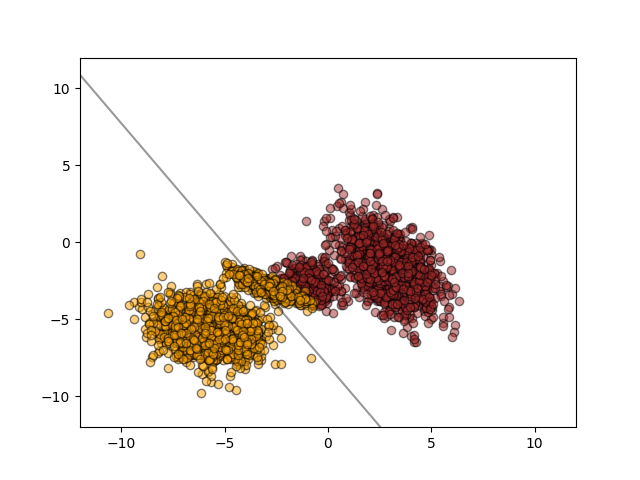
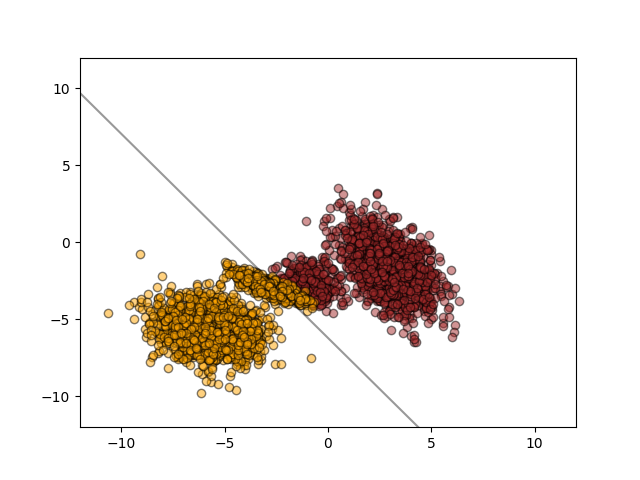
Corrigido computação da matriz de confusão

diff --git a/src/tc2/perceptron.py b/src/tc2/perceptron.py
@@ -1,11 +1,10 @@
 import matplotlib.pyplot as plt
 import numpy as np
-import seaborn as sns
 import os
 from util import (
     carregar_dados,
     computar_indice_mc,
-    estatisticas,
+    exportar_graficos,
     plotar_dados,
     printar_progresso,
     processar_dados,
@@ -46,22 +45,16 @@ while RODADA < MAX_RODADAS:
     EPOCH = 0
     MAX_EPOCH = 100
 
-    ACURACIAS = []
-    SENSIBILIDADES = []
-    ESPECIFICIDADES = []
-    EPOCH_DATA = []
-
-    matriz_confusao_rodada = np.zeros((2, 2), dtype=int)
+    matriz_confusao = np.zeros((2, 2), dtype=int)
 
     plt.clf()
     plotar_dados(X, has_bias=True)
 
-    printar_progresso(RODADA / MAX_RODADAS)
-
     while ERRO and EPOCH < MAX_EPOCH:
+        printar_progresso(RODADA / MAX_RODADAS)
+
         ERRO = False
         QTD_ERROS = 0
-        matriz_confusao = np.zeros((2, 2), dtype=int)
 
         # Fase de treino
         for t in range(N):
@@ -80,90 +73,42 @@ while RODADA < MAX_RODADAS:
         # plt.plot(x1, x2, color=rdc(), alpha=0.4)
         # plt.pause(0.01)
 
-        # Fase de testes
-        for t in range(N_teste):
-            x_t = X_teste[:, t].reshape(3, 1)
-            u_t = W.T @ x_t
-            y_t = sinal(u_t[0, 0])
-            d_t = y_teste[t, 0]
-
-            y_real = computar_indice_mc(int(y_teste[t][0]))
-            y_predito = computar_indice_mc(y_t)
-            matriz_confusao[y_predito, y_real] += 1
-
-        VN: int = matriz_confusao[0, 0]
-        VP: int = matriz_confusao[1, 1]
-        FN: int = matriz_confusao[0, 1]
-        FP: int = matriz_confusao[1, 0]
-
-        ACURACIA = (VP + VN) / (VP + VN + FP + FN)
-        SENSIBILIDADE = VP / (VP + FN)
-        ESPECIFICIDADE = VN / (VN + FP)
-
-        ACURACIAS.append(ACURACIA)
-        SENSIBILIDADES.append(SENSIBILIDADE)
-        ESPECIFICIDADES.append(ESPECIFICIDADE)
-
-        matriz_confusao_rodada += matriz_confusao
-
-        EPOCH_DATA.append(
-            {
-                "acuracia": ACURACIA,
-                "sensibilidade": SENSIBILIDADE,
-                "especificidade": ESPECIFICIDADE,
-                "epoch": EPOCH,
-                "rodada": RODADA,
-                "matriz_confusao": matriz_confusao,
-                "x1": x1,
-                "x2": x2,
-            }
-        )
-
         EPOCH += 1
+
+    # Fase de testes
+    for t in range(N_teste):
+        x_t = X_teste[:, t].reshape(3, 1)
+        u_t = W.T @ x_t
+        y_t = sinal(u_t[0, 0])
+        d_t = y_teste[t, 0]
+
+        y_real = computar_indice_mc(int(y_teste[t][0]))
+        y_predito = computar_indice_mc(y_t)
+        matriz_confusao[y_predito, y_real] += 1
+
+    VN: int = matriz_confusao[0, 0]
+    VP: int = matriz_confusao[1, 1]
+    FN: int = matriz_confusao[0, 1]
+    FP: int = matriz_confusao[1, 0]
+
+    ACURACIA = (VP + VN) / (VP + VN + FP + FN)
+    SENSIBILIDADE = VP / (VP + FN)
+    ESPECIFICIDADE = VN / (VN + FP)
 
     RODADA_DATA.append(
         {
-            "acuracia": np.mean(ACURACIAS),
-            "sensibilidade": np.mean(SENSIBILIDADES),
-            "especificidade": np.mean(ESPECIFICIDADES),
+            "acuracia": ACURACIA,
+            "sensibilidade": SENSIBILIDADE,
+            "especificidade": ESPECIFICIDADE,
             "rodada": RODADA,
-            "matriz_confusao": matriz_confusao_rodada,
-            "epoch_data": EPOCH_DATA,
+            "matriz_confusao": matriz_confusao,
+            "x1": x1,
+            "x2": x2,
         }
     )
 
     RODADA += 1
 
-# 7. Ao final das rodadas, compute os seguintes resultados para o PS e ADALINE
-# A. Acurácia média
-# B. Sensibilidade média
-# C. Especificidade média
-ACURACIAS = [d["acuracia"] for d in RODADA_DATA]
-SENSIBILIDADES = [d["sensibilidade"] for d in RODADA_DATA]
-ESPECIFICIDADES = [d["especificidade"] for d in RODADA_DATA]
-estatisticas(ACURACIAS, SENSIBILIDADES, ESPECIFICIDADES, modelo="Perceptron")
-
-MELHOR_RODADA = max(RODADA_DATA, key=lambda x: x["acuracia"])
-PIOR_RODADA = min(RODADA_DATA, key=lambda x: x["acuracia"])
-
-plt.show()
-
-# D. Matriz de confusão da melhor rodada
-plt.clf()
-sns.heatmap(MELHOR_RODADA["matriz_confusao"], annot=True, fmt="d")
-
-# E. Matriz de confusão da pior rodada
-plt.clf()
-sns.heatmap(PIOR_RODADA["matriz_confusao"], annot=True, fmt="d")
-
-# F. Traçar o hiperplano de separação das duas classes para a melhor e pior rodada
-MELHOR_EPOCH = max(MELHOR_RODADA["epoch_data"], key=lambda x: x["acuracia"])
-PIOR_EPOCH = min(PIOR_RODADA["epoch_data"], key=lambda x: x["acuracia"])
-plt.clf()
-plotar_dados(X, has_bias=True)
-plt.plot(MELHOR_EPOCH["x1"], MELHOR_EPOCH["x2"], color="black", alpha=0.4)
-plt.clf()
-plotar_dados(X, has_bias=True)
-plt.plot(PIOR_EPOCH["x1"], PIOR_EPOCH["x2"], color="black", alpha=0.4)
+exportar_graficos(X, RODADA_DATA, "Perceptron")
 
 pass

diff --git a/src/tc2/adaline.py b/src/tc2/adaline.py
@@ -6,6 +6,7 @@ from util import (
     carregar_dados,
     computar_indice_mc,
     estatisticas,
+    exportar_graficos,
     plotar_dados,
     printar_progresso,
     processar_dados,
@@ -31,7 +32,6 @@ def EQM(X, y, W):
 
 (X, y) = carregar_dados("data/DataAV2_new_2.csv")
 plotar_dados(X, has_bias=False)
-plt.show()
 
 N, p = X.shape
 X = X.T
@@ -40,7 +40,7 @@ X = np.concatenate((-np.ones((1, N)), X))
 LR = 1e-2
 PRECISION = 1e-2
 
-MAX_EPOCH = 300
+MAX_EPOCH = 100
 
 RODADA = 0
 MAX_RODADAS = 100
@@ -69,9 +69,6 @@ while RODADA < MAX_RODADAS:
     ACURACIAS = []
     SENSIBILIDADES = []
     ESPECIFICIDADES = []
-    EPOCH_DATA = []
-
-    matriz_confusao_rodada = np.zeros((2, 2), dtype=int)
 
     plt.clf()
     plotar_dados(X, has_bias=True)
@@ -95,92 +92,45 @@ while RODADA < MAX_RODADAS:
                 x2 = -x1 * (W[1, 0] / W[2, 0]) + W[0, 0] / W[2, 0]
         EQM2 = EQM(X, y, W)
 
+        EPOCH += 1
+
         # plt.plot(x1, x2, color=rdc(), alpha=0.4)
         # plt.pause(0.01)
 
-        # Fase de testes
-        for t in range(N_teste):
-            x_t = X_teste[:, t].reshape(3, 1)
-            u_t = W.T @ x_t
-            y_t = sinal(u_t[0, 0])
+    # Fase de testes
+    for t in range(N_teste):
+        x_t = X_teste[:, t].reshape(3, 1)
+        u_t = W.T @ x_t
+        y_t = sinal(u_t[0, 0])
+        d_t = y_teste[t, 0]
 
-            y_real = computar_indice_mc(int(y_teste[t][0]))
-            y_predito = computar_indice_mc(y_t)
-            matriz_confusao[y_predito, y_real] += 1
+        y_real = computar_indice_mc(int(y_teste[t][0]))
+        y_predito = computar_indice_mc(y_t)
+        matriz_confusao[y_predito, y_real] += 1
 
-        VN: int = matriz_confusao[0, 0]
-        VP: int = matriz_confusao[1, 1]
-        FN: int = matriz_confusao[0, 1]
-        FP: int = matriz_confusao[1, 0]
+    VN: int = matriz_confusao[0, 0]
+    VP: int = matriz_confusao[1, 1]
+    FN: int = matriz_confusao[0, 1]
+    FP: int = matriz_confusao[1, 0]
 
-        ACURACIA = (VP + VN) / (VP + VN + FP + FN)
-        SENSIBILIDADE = VP / (VP + FN)
-        ESPECIFICIDADE = VN / (VN + FP)
-
-        ACURACIAS.append(ACURACIA)
-        SENSIBILIDADES.append(SENSIBILIDADE)
-        ESPECIFICIDADES.append(ESPECIFICIDADE)
-
-        matriz_confusao_rodada += matriz_confusao
-
-        EPOCH_DATA.append(
-            {
-                "acuracia": ACURACIA,
-                "sensibilidade": SENSIBILIDADE,
-                "especificidade": ESPECIFICIDADE,
-                "epoch": EPOCH,
-                "rodada": RODADA,
-                "matriz_confusao": matriz_confusao,
-                "x1": x1,
-                "x2": x2,
-            }
-        )
-
-        EPOCH += 1
+    ACURACIA = (VP + VN) / (VP + VN + FP + FN)
+    SENSIBILIDADE = VP / (VP + FN)
+    ESPECIFICIDADE = VN / (VN + FP)
 
     RODADA_DATA.append(
         {
-            "acuracia": np.mean(ACURACIAS),
-            "sensibilidade": np.mean(SENSIBILIDADES),
-            "especificidade": np.mean(ESPECIFICIDADES),
+            "acuracia": ACURACIA,
+            "sensibilidade": SENSIBILIDADE,
+            "especificidade": ESPECIFICIDADE,
             "rodada": RODADA,
-            "matriz_confusao": matriz_confusao_rodada,
-            "epoch_data": EPOCH_DATA,
+            "matriz_confusao": matriz_confusao,
+            "x1": x1,
+            "x2": x2,
         }
     )
 
     RODADA += 1
 
-# 7. Ao final das rodadas, compute os seguintes resultados para o PS e ADALINE
-# A. Acurácia média
-# B. Sensibilidade média
-# C. Especificidade média
-ACURACIAS = [d["acuracia"] for d in RODADA_DATA]
-SENSIBILIDADES = [d["sensibilidade"] for d in RODADA_DATA]
-ESPECIFICIDADES = [d["especificidade"] for d in RODADA_DATA]
-estatisticas(ACURACIAS, SENSIBILIDADES, ESPECIFICIDADES, modelo="Adaline")
-
-MELHOR_RODADA = max(RODADA_DATA, key=lambda x: x["acuracia"])
-PIOR_RODADA = min(RODADA_DATA, key=lambda x: x["acuracia"])
-
-plt.show()
-
-# D. Matriz de confusão da melhor rodada
-plt.clf()
-sns.heatmap(MELHOR_RODADA["matriz_confusao"], annot=True, fmt="d")
-
-# E. Matriz de confusão da pior rodada
-plt.clf()
-sns.heatmap(PIOR_RODADA["matriz_confusao"], annot=True, fmt="d")
-
-# F. Traçar o hiperplano de separação das duas classes para a melhor e pior rodada
-MELHOR_EPOCH = max(MELHOR_RODADA["epoch_data"], key=lambda x: x["acuracia"])
-PIOR_EPOCH = min(PIOR_RODADA["epoch_data"], key=lambda x: x["acuracia"])
-plt.clf()
-plotar_dados(X, has_bias=True)
-plt.plot(MELHOR_EPOCH["x1"], MELHOR_EPOCH["x2"], color="black", alpha=0.4)
-plt.clf()
-plotar_dados(X, has_bias=True)
-plt.plot(PIOR_EPOCH["x1"], PIOR_EPOCH["x2"], color="black", alpha=0.4)
+exportar_graficos(X, RODADA_DATA, "Adaline")
 
 pass

diff --git a/src/tc2/util.py b/src/tc2/util.py
@@ -1,6 +1,7 @@
 import cv2
+import seaborn as sns
 import datetime as dt
-from typing import Any
+from typing import Any, Dict, List
 
 import pandas as pd
 import matplotlib.pyplot as plt
@@ -102,13 +103,63 @@ def estatisticas(
     }
 
     df = pd.DataFrame(stats)
-    df.to_csv(f"out/rst_{modelo}.csv", sep=";")
+    df.to_csv(f"out/tc2/rst_{modelo}.csv", sep=";")
     # plt.figure(figsize=(10, 6))
     # plt.bar(df["Estatísticas"], df["Média"], yerr=df["Desvio Padrão"])
     # plt.xlabel("Modelo")
     # plt.ylabel("Estatística")
     # plt.title("Estatísticas de performance por Modelo")
     # plt.savefig(f"out/Estatisticas_{modelo}.png")
+
+
+def exportar_graficos(
+    X: np.ndarray[Any, np.dtype[Any]], RODADA_DATA: List[Dict], modelo: str
+):
+    # 7. Ao final das rodadas, compute os seguintes resultados para o PS e ADALINE
+    # A. Acurácia média
+    # B. Sensibilidade média
+    # C. Especificidade média
+    ACURACIAS = [d["acuracia"] for d in RODADA_DATA]
+    SENSIBILIDADES = [d["sensibilidade"] for d in RODADA_DATA]
+    ESPECIFICIDADES = [d["especificidade"] for d in RODADA_DATA]
+    estatisticas(ACURACIAS, SENSIBILIDADES, ESPECIFICIDADES, modelo=modelo)
+
+    MELHOR_RODADA = max(RODADA_DATA, key=lambda x: x["acuracia"])
+    PIOR_RODADA = min(RODADA_DATA, key=lambda x: x["acuracia"])
+
+    # D. Matriz de confusão da melhor rodada
+    plt.clf()
+    sns.heatmap(
+        MELHOR_RODADA["matriz_confusao"],
+        annot=True,
+        fmt="d",
+        cbar=False,
+        xticklabels=["-1", "1"],
+        yticklabels=["-1", "1"],
+    )
+    plt.savefig(f"out/tc2/MatrizConfusao_{modelo}_MelhorRodada.png")
+
+    # E. Matriz de confusão da pior rodada
+    plt.clf()
+    sns.heatmap(
+        PIOR_RODADA["matriz_confusao"],
+        annot=True,
+        fmt="d",
+        cbar=False,
+        xticklabels=["-1", "1"],
+        yticklabels=["-1", "1"],
+    )
+    plt.savefig(f"out/tc2/MatrizConfusao_{modelo}_PiorRodada.png")
+
+    # F. Traçar o hiperplano de separação das duas classes para a melhor e pior rodada
+    plt.clf()
+    plotar_dados(X, has_bias=True)
+    plt.plot(MELHOR_RODADA["x1"], MELHOR_RODADA["x2"], color="black", alpha=0.4)
+    plt.savefig(f"out/tc2/Hiperplano_{modelo}_MelhorRodada.png")
+    plt.clf()
+    plotar_dados(X, has_bias=True)
+    plt.plot(PIOR_RODADA["x1"], PIOR_RODADA["x2"], color="black", alpha=0.4)
+    plt.savefig(f"out/tc2/Hiperplano_{modelo}_PiorRodada.png")
 
 
 def plotar_dados(X: np.ndarray[Any, np.dtype[Any]], has_bias: bool = True):
